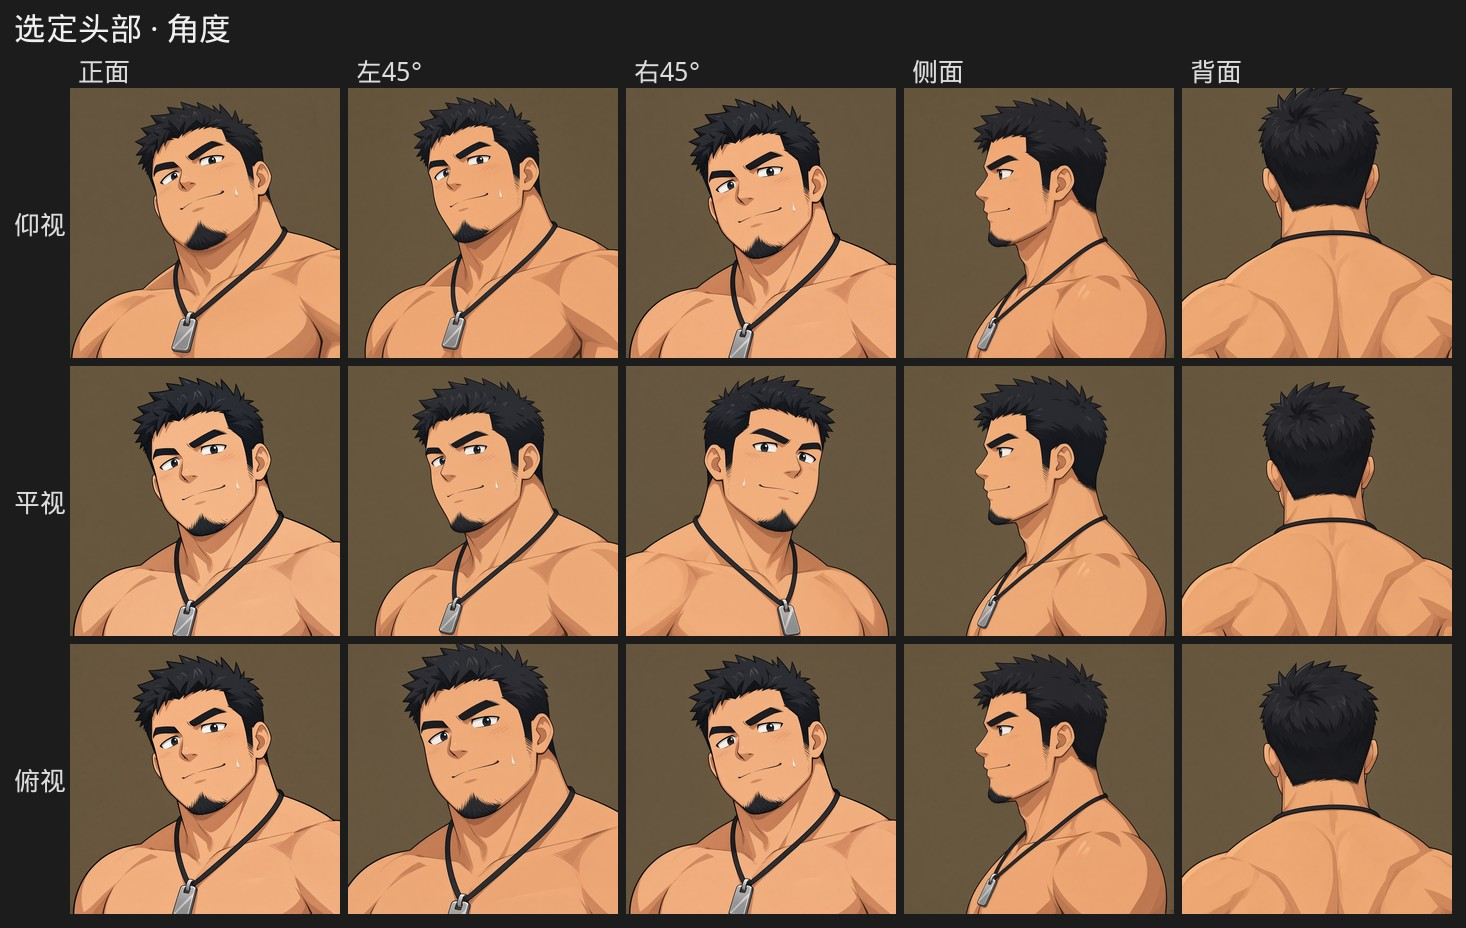
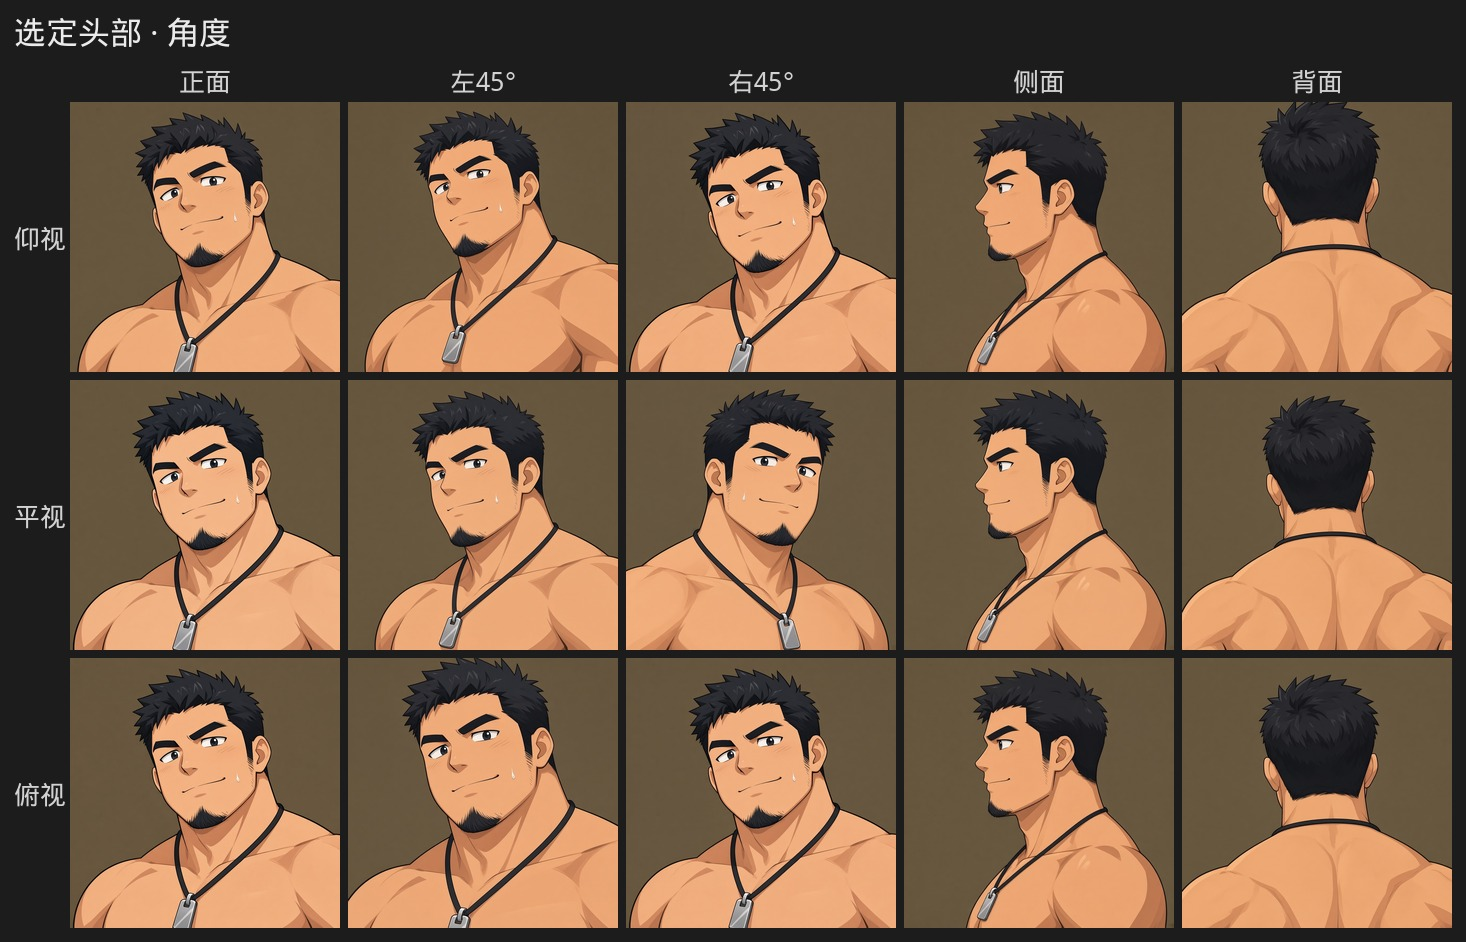
fix: 正面仰视不再把下颌和脖子撑宽
仰视镜头会把下巴底面和脖子摊开，看起来比选定正面胖。这张只略微抬头，下颌和脖子宽度跟平视对齐。

diff --git a/人物设定图/设定说明.md b/人物设定图/设定说明.md
@@ -4,7 +4,7 @@
 
 脸用选定的那张：眉骨重、眼往侧看、下巴一小撮山羊胡。头发按参考改成短的粗块，块大、轮廓粗、块里不再画细丝。脸加宽，颊更满，下颌和颊的外轮廓是一条圆滑的弧，不再收成瘦尖的下巴。全身上的下巴跟这版圆润轮廓走。身材高、腿长。下身平黑短裤。纹身和旁边的人不进设定。黑绳狗牌和颊上那滴汗只留在头部还原这一套里。
 
-已确认的正面是 `脸部选定/正面.jpg`。角度和表情都从这张脸铺开。脸宽和肩宽跟这张正面对齐，不另画更壮或更瘦的体格。侧面脸上的下颌线是一条圆滑的弧，从耳前弯到下巴。下巴接到脖子的那条外轮廓不动。侧目就是这张正面：眼往侧看，嘴角轻笑，颊上一滴汗。平视嘴是平的。沉脸嘴绷直。怒是眉压下去。惊讶张嘴睁眼。
+已确认的正面是 `脸部选定/正面.jpg`。角度和表情都从这张脸铺开。脸宽和肩宽跟这张正面对齐，不另画更壮或更瘦的体格。仰视正面只把镜头放低一点，下颌和脖子的宽度跟这张平视一样，不把下巴底面撑开。侧面脸上的下颌线是一条圆滑的弧，从耳前弯到下巴。下巴接到脖子的那条外轮廓不动。侧目就是这张正面：眼往侧看，嘴角轻笑，颊上一滴汗。平视嘴是平的。沉脸嘴绷直。怒是眉压下去。惊讶张嘴睁眼。
 
 ## 识别点
 
